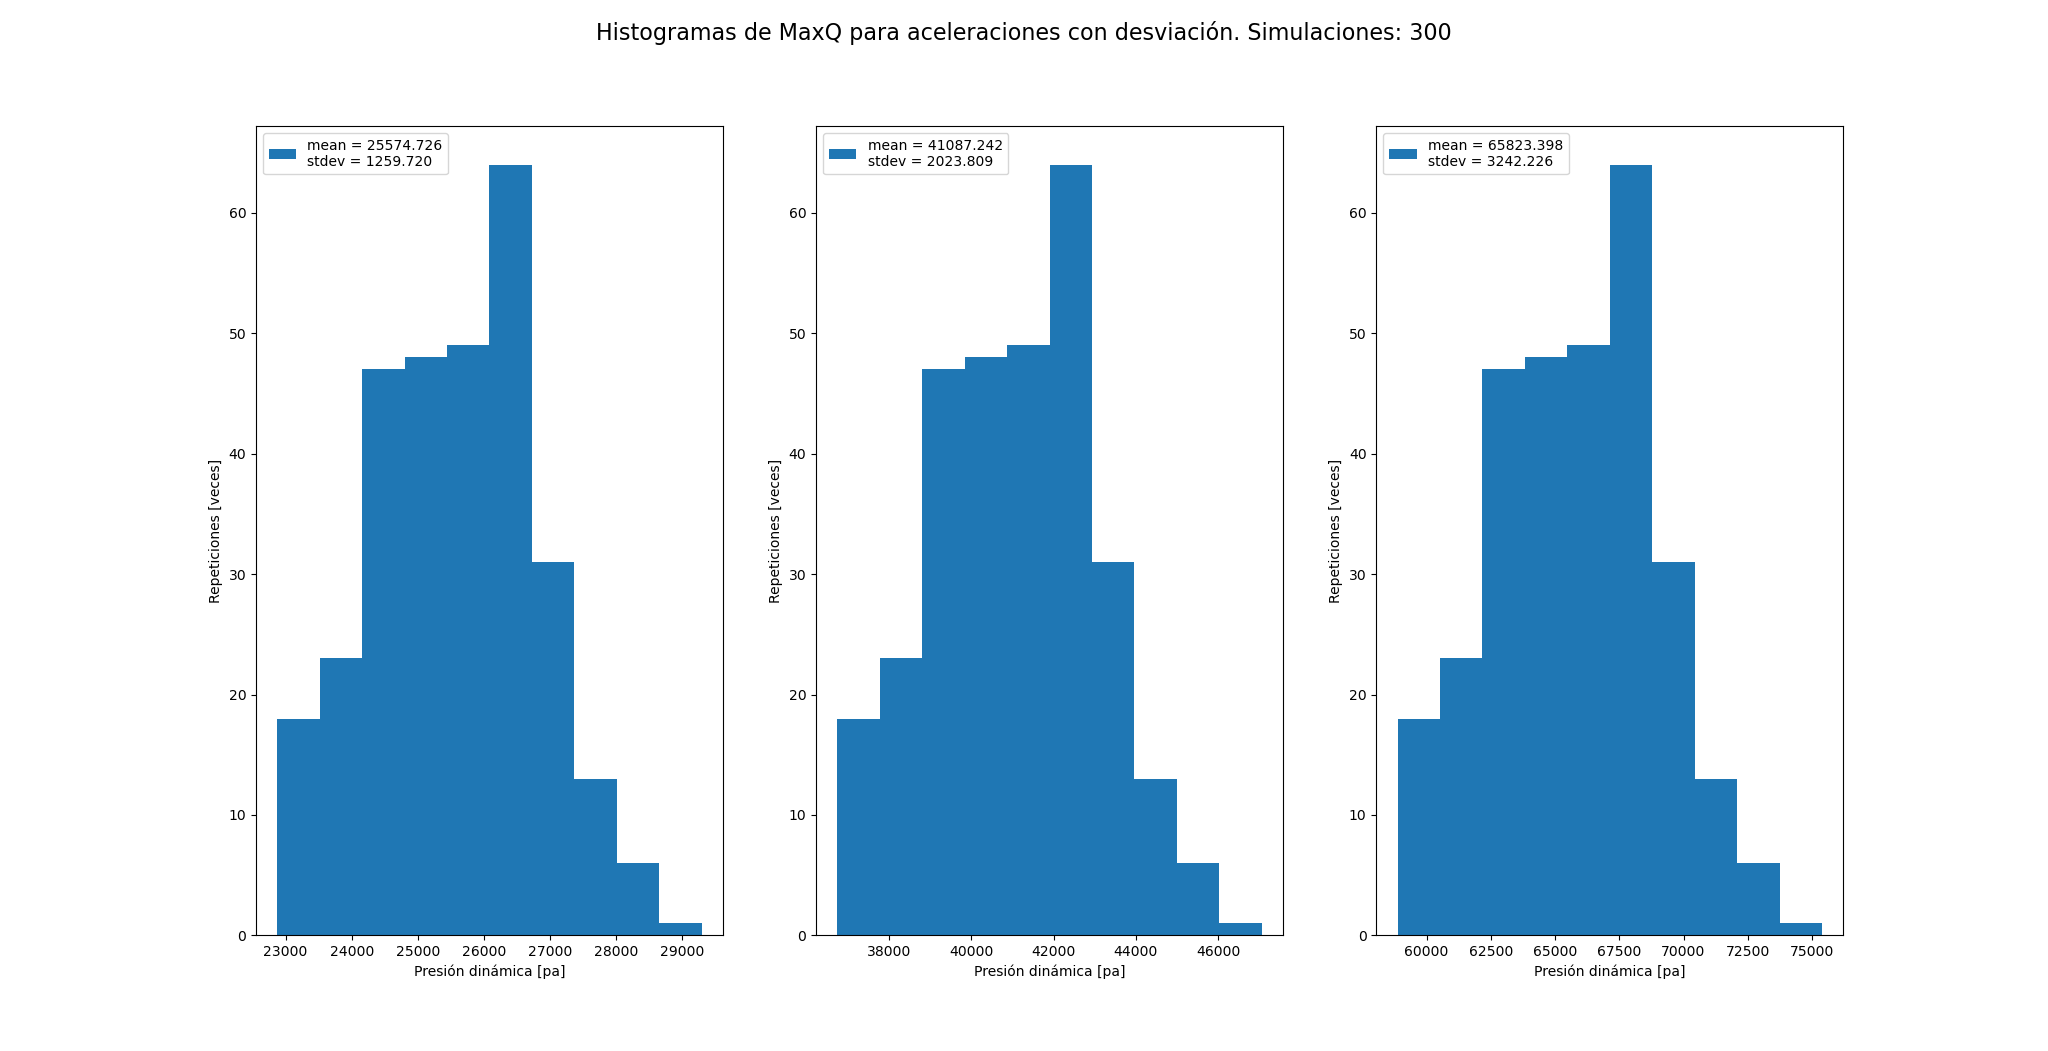
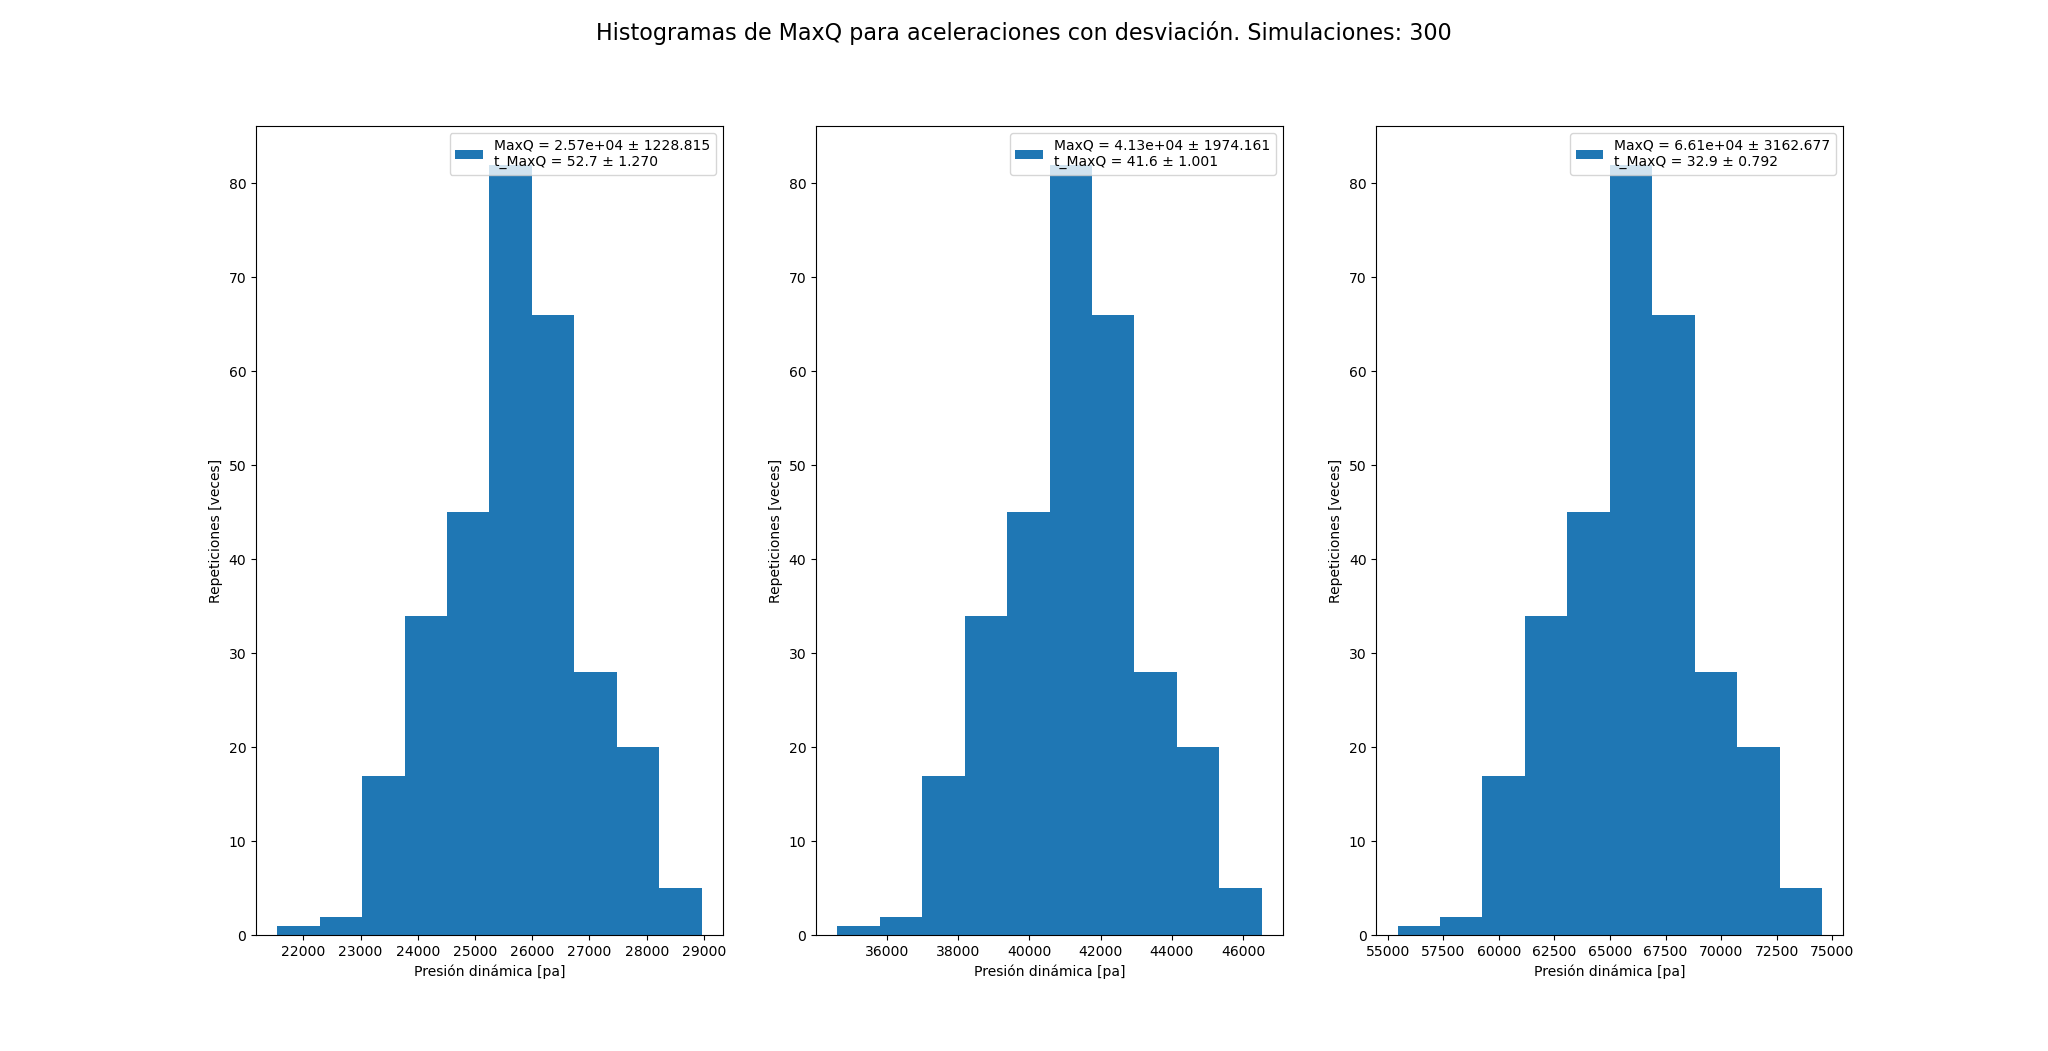
Cambia forma de mostrar media y desviación
tambien agrega t_Qmax

diff --git a/Actividad 3/act3_maxq_random.py b/Actividad 3/act3_maxq_random.py
@@ -13,11 +13,11 @@ if __name__== '__main__':
     for i in range(len(a_arr)):
         a_dev_arr.append(a_arr[i] * (1+e))
 
-    maximos = list() # 
+    maximos = list()
     for a_dev in a_dev_arr:
-        q_maxs = list() 
-        t_maxs = list() 
-        for a in a_dev: # i es una aceleración
+        q_maxs = list()
+        t_maxs = list()
+        for a in a_dev:
             q_t = value(fix_variable(q_dinamica, a), t)
             index = q_t.argmax()
             t_maxs.append(t[index])
@@ -39,7 +39,7 @@ if __name__== '__main__':
     for i in range(len(maximos)):
         axes[i].set_xlabel('Presión dinámica [pa]')
         axes[i].set_ylabel('Repeticiones [veces]')
-        axes[i].hist(maximos[i][1], label=f'mean = {mean[i][1]:.3f}\nstdev = {stdev[i][1]:.3f}')
+        axes[i].hist(maximos[i][1], label=f'MaxQ = {mean[i][1]:.3} ± {stdev[i][1]:.3f}\nt_MaxQ = {mean[i][0]:.3} ± {stdev[i][0]:.3f}')
         axes[i].legend()
     plt.show()
 
